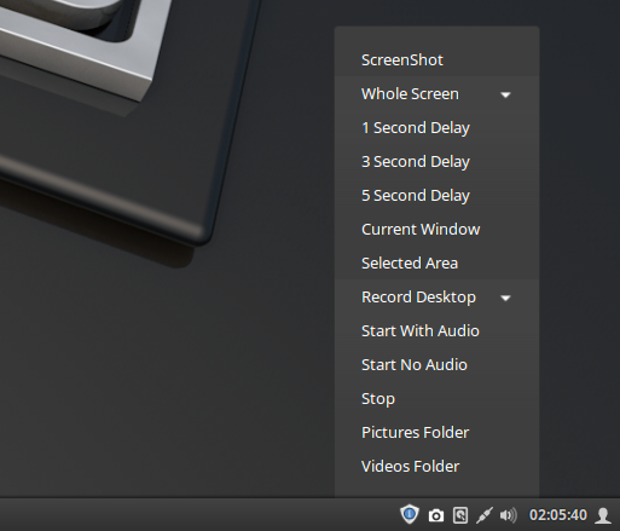
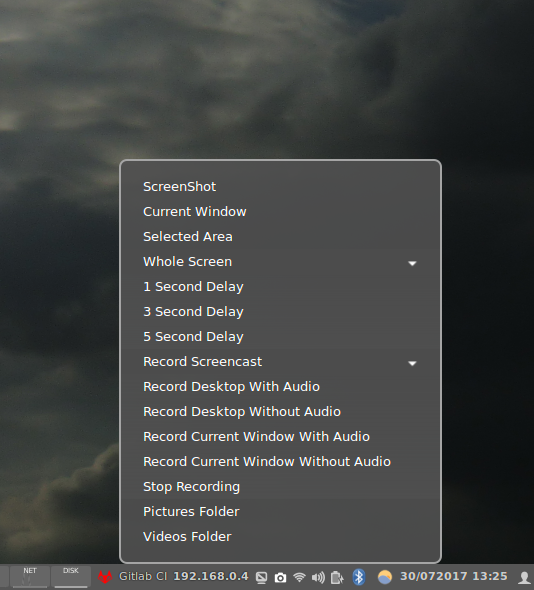
add action to record the current window (#1103)

diff --git a/ScreenShot+RecordDesktop@tech71/files/ScreenShot+RecordDesktop@tech71/applet.js b/ScreenShot+RecordDesktop@tech71/files/ScreenShot+RecordDesktop@tech71/applet.js
@@ -23,7 +23,82 @@ function MyApplet(orientation) {
 
 MyApplet.prototype = {
     __proto__: Applet.IconApplet.prototype,
+    defineScreenShotDefault: function () {
+        //Advanced Screenshot - opens gnome-screenshot
+        this.menu.addAction(_("ScreenShot"), function(event) {
+            Main.Util.spawnCommandLine("gnome-screenshot --interactive");
+        });         
 
+        //Current Window
+        this.menu.addAction(_("Current Window"), function(event) {
+            Main.Util.spawnCommandLine("gnome-screenshot -w --delay=1");
+        }); 
+
+        //Selected Area
+        this.menu.addAction(_("Selected Area"), function(event) {
+            Main.Util.spawnCommandLine("gnome-screenshot -a");
+        });
+    },
+    defineScreenShotMenuItem: function () {
+		//Whole Screen - Dropdown Menu		
+		this.screenshotItem = new PopupMenu.PopupSubMenuMenuItem(_("Whole Screen")); 
+		//1 Sec Delay
+		this.screenshotItem.menu.addAction(_("1 Second Delay"), function(actor, event) {
+		    Main.Util.spawnCommandLine("gnome-screenshot --delay=1");
+		});
+		//3 Sec Delay
+		this.screenshotItem.menu.addAction(_("3 Second Delay"), function(actor, event) {
+		    Main.Util.spawnCommandLine("gnome-screenshot --delay=3");
+		}); 
+		//5 Sec Delay
+		this.screenshotItem.menu.addAction(_("5 Second Delay"), function(actor, event) {
+	          Main.Util.spawnCommandLine("gnome-screenshot --delay=5");
+        });
+        
+        this.menu.addMenuItem(this.screenshotItem); 
+    },
+    defineRecordMenuItem: function () {
+        this.recordItem = new PopupMenu.PopupSubMenuMenuItem(_("Record Screencast"));
+        
+        var self = this;
+        //Start Recording With Audio
+        this.recordItem.menu.addAction(_("Record Desktop With Audio"), function(actor, event) {
+            self.set_applet_icon_symbolic_name("media-record");
+            Main.Util.spawnCommandLine("bash " + GLib.get_home_dir() + "/.local/share/cinnamon/applets/ScreenShot+RecordDesktop@tech71/screencapturesound.sh");
+            Main.Util.spawnCommandLine("notify-send --icon=gtk-add '" + _("Recording") + "' '" + _("With-Audio") + "'");
+        });
+        //Start Recording No Audio
+        this.recordItem.menu.addAction(_("Record Desktop Without Audio"), function(actor, event) {
+            self.set_applet_icon_symbolic_name("media-record");
+            Main.Util.spawnCommandLine("bash " + GLib.get_home_dir() + "/.local/share/cinnamon/applets/ScreenShot+RecordDesktop@tech71/screencapture.sh");
+            Main.Util.spawnCommandLine("notify-send --icon=gtk-add '" + _("Recording") + "' '" + _("No-Audio") + "'");
+        });
+        
+        //Start Recording With Audio
+        this.recordItem.menu.addAction(_("Record Current Window With Audio"), function(actor, event) {
+            self.set_applet_icon_symbolic_name("media-record");
+            Main.Util.spawnCommandLine("bash " + GLib.get_home_dir() + "/.local/share/cinnamon/applets/ScreenShot+RecordDesktop@tech71/screencapturesoundwindow.sh");
+            Main.Util.spawnCommandLine("notify-send --icon=gtk-add '" + _("Recording") + "' '" + _("With-Audio") + "'");
+        });
+        //Start Recording No Audio
+        this.recordItem.menu.addAction(_("Record Current Window Without Audio"), function(actor, event) {
+            self.set_applet_icon_symbolic_name("media-record");
+            Main.Util.spawnCommandLine("bash " + GLib.get_home_dir() + "/.local/share/cinnamon/applets/ScreenShot+RecordDesktop@tech71/screencapturewindow.sh");
+            Main.Util.spawnCommandLine("notify-send --icon=gtk-add '" + _("Recording") + "' '" + _("No-Audio") + "'");
+        });
+        
+        //Stop Recording
+        this.recordItem.menu.addAction(_("Stop Recording"), function(actor, event) {
+            self.set_applet_icon_symbolic_name("camera-photo-symbolic");
+            Main.Util.spawnCommandLine("killall -SIGTERM screencapture.sh");
+            Main.Util.spawnCommandLine("killall -SIGTERM screencapturesound.sh");
+            Main.Util.spawnCommandLine("killall -SIGTERM ffmpeg");
+            Main.Util.spawnCommandLine("notify-send --icon=gtk-add '" + _("Recording-Stopped") + "'");
+            Main.Util.spawnCommandLine("notify-send --icon=gtk-add '" + _("Recording-Finished") + "'");
+        });
+        
+        this.menu.addMenuItem(this.recordItem);
+    },
     _init: function(orientation) {        
         Applet.IconApplet.prototype._init.call(this, orientation);
         
@@ -37,79 +112,25 @@ MyApplet.prototype = {
                                                                 
             this._contentSection = new PopupMenu.PopupMenuSection();
             this.menu.addMenuItem(this._contentSection);                    
-                                                    
-          
-		//Advanced Screenshot - opens gnome-screenshot
-		this.menu.addAction(_("ScreenShot"), function(event) {
-                Main.Util.spawnCommandLine("gnome-screenshot --interactive");
-		}); 
+                
+        	this.defineScreenShotDefault();
 
-		//Whole Screen - Dropdown Menu		
-		this.screenshotItem = new PopupMenu.PopupSubMenuMenuItem(_("Whole Screen")); 
-		//1 Sec Delay
-		this.screenshotItem.menu.addAction(_("1 Second Delay"), function(actor, event) {
-		Main.Util.spawnCommandLine("gnome-screenshot --delay=1");
-		});
-		//3 Sec Delay
-		this.screenshotItem.menu.addAction(_("3 Second Delay"), function(actor, event) {
-		Main.Util.spawnCommandLine("gnome-screenshot --delay=3");
-		}); 
-		//5 Sec Delay
-		this.screenshotItem.menu.addAction(_("5 Second Delay"), function(actor, event) {
-		Main.Util.spawnCommandLine("gnome-screenshot --delay=5");
-		
-});  
-                       
-		this.menu.addMenuItem(this.screenshotItem); 
+            this.defineScreenShotMenuItem();   
 
+        	//Record My Desktop - Dropdown Menu
+            this.defineRecordMenuItem();
 
+        	//Open Screenshot Pictures Folder
+        	this.menu.addAction(_("Pictures Folder"), function(actor, event) {
+        	// For the Pictures user folder
+        	Main.Util.spawn_async(["xdg-open", GLib.get_user_special_dir(GLib.UserDirectory.DIRECTORY_PICTURES)], null);
+        	});  
 
-		//Current Window
-		this.menu.addAction(_("Current Window"), function(event) {
-                Main.Util.spawnCommandLine("gnome-screenshot -w --delay=1");
-		}); 
-
-		//Selected Area
-		this.menu.addAction(_("Selected Area"), function(event) {
-                Main.Util.spawnCommandLine("gnome-screenshot -a");
-		});
-	
-
-	//Record My Desktop - Dropdown Menu
-	this.recordItem = new PopupMenu.PopupSubMenuMenuItem(_("Record Desktop"));
-	//Start Recording With Audio
-	this.recordItem.menu.addAction(_("Start With Audio"), function(actor, event) {
-        Main.Util.spawnCommandLine(GLib.get_home_dir() + "/.local/share/cinnamon/applets/ScreenShot+RecordDesktop@tech71/screencapturesound.sh");
-	Main.Util.spawnCommandLine("notify-send --icon=gtk-add '" + _("Recording") + "' '" + _("With-Audio") + "'");
-	});
-	//Start Recording No Audio
-	this.recordItem.menu.addAction(_("Start No Audio"), function(actor, event) {
-	Main.Util.spawnCommandLine(GLib.get_home_dir() + "/.local/share/cinnamon/applets/ScreenShot+RecordDesktop@tech71/screencapture.sh");
-	Main.Util.spawnCommandLine("notify-send --icon=gtk-add '" + _("Recording") + "' '" + _("No-Audio") + "'");
-	});
-	//Stop Recording
-	this.recordItem.menu.addAction(_("Stop"), function(actor, event) {
-	Main.Util.spawnCommandLine("killall -SIGTERM screencapture.sh");
-	Main.Util.spawnCommandLine("killall -SIGTERM screencapturesound.sh");
-	Main.Util.spawnCommandLine("killall -SIGTERM ffmpeg");
-	Main.Util.spawnCommandLine("notify-send --icon=gtk-add '" + _("Recording-Stopped") + "'");
-	Main.Util.spawnCommandLine("notify-send --icon=gtk-add '" + _("Recording-Finished") + "'");
-	});
-                       
-	this.menu.addMenuItem(this.recordItem);
-
-
-	//Open Screenshot Pictures Folder
-	this.menu.addAction(_("Pictures Folder"), function(actor, event) {
-	// For the Pictures user folder
-	Main.Util.spawn_async(["xdg-open", GLib.get_user_special_dir(GLib.UserDirectory.DIRECTORY_PICTURES)], null);
-	});  
-
-	//Open Recorded Video Folder
-	this.menu.addAction(_("Videos Folder"), function(actor, event) {
-	// For the Videos user folder
-	Main.Util.spawn_async(["xdg-open", GLib.get_user_special_dir(GLib.UserDirectory.DIRECTORY_VIDEOS)], null);
-	});   
+        	//Open Recorded Video Folder
+        	this.menu.addAction(_("Videos Folder"), function(actor, event) {
+        	// For the Videos user folder
+        	Main.Util.spawn_async(["xdg-open", GLib.get_user_special_dir(GLib.UserDirectory.DIRECTORY_VIDEOS)], null);
+        	});   
                         
         }
         catch (e) {
